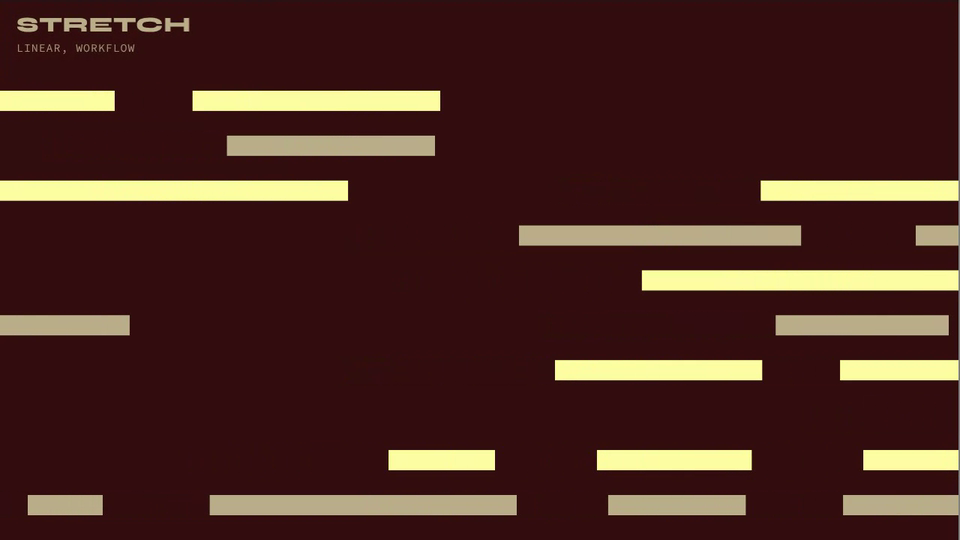
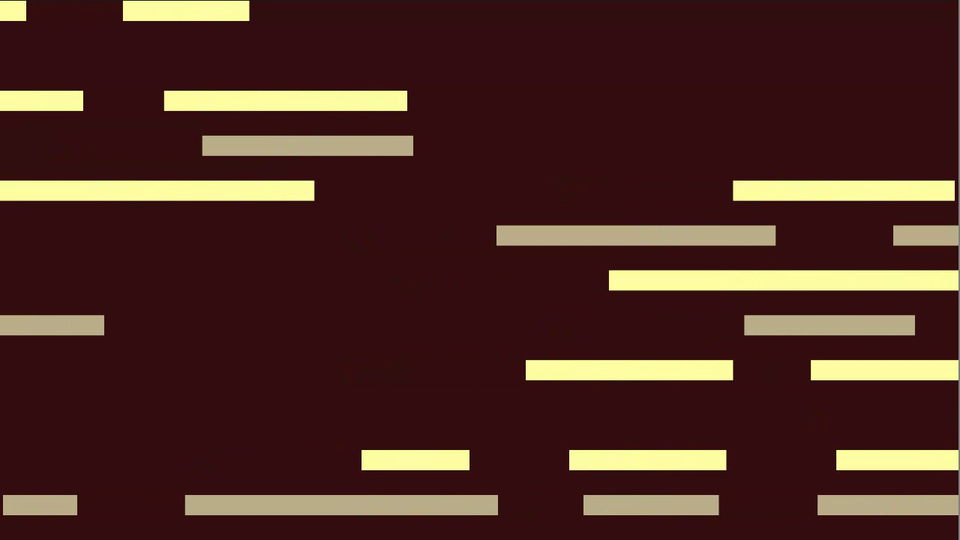
HOB Pattern Generator: controls in a right sidebar, no text on the preview
Claude-Session: https://claude.ai/code/session_01AHeBdw1yZrTVobosxD3wAX

diff --git a/hob-pattern-generator/index.html b/hob-pattern-generator/index.html
@@ -17,35 +17,38 @@ nav.back a:hover,nav.back a:focus-visible{color:#fff;text-decoration:underline;t
 nav.back span{color:#6e6e6e}
 nav.back b{font-weight:500;color:#fff;overflow:hidden;text-overflow:ellipsis}
 @media (max-width:640px){nav.back{padding:0 16px}nav.back>span:nth-of-type(2),nav.back>b{display:none}}
-main{flex:1;min-height:0;position:relative;overflow:hidden;background:#330F10}
+main{flex:1;min-height:0;display:flex;overflow:hidden;background:#efefef}
+.stage{flex:1;min-width:0;position:relative}
 canvas{position:absolute;inset:0;width:100%;height:100%;display:block}
-.lab{position:absolute;left:22px;top:18px;pointer-events:none;color:var(--ink)}
-.lab h1{font:800 28px/1 "Syne","Arial Black",sans-serif;letter-spacing:.02em;text-transform:uppercase}
-.lab p{margin-top:8px;font:400 15px/1.2 "Source Code Pro",ui-monospace,monospace;letter-spacing:.06em;text-transform:uppercase;opacity:.85}
-.panel{position:absolute;left:16px;right:16px;bottom:16px;max-width:900px;display:flex;flex-wrap:wrap;gap:10px 18px;align-items:center;padding:10px 12px;border-radius:12px;background:rgba(0,0,0,.62);backdrop-filter:blur(10px);-webkit-backdrop-filter:blur(10px)}
-.seg{display:flex;gap:4px}
-button{font:inherit;color:#fff;background:transparent;border:1px solid rgba(255,255,255,.28);border-radius:8px;padding:6px 11px;cursor:pointer;white-space:nowrap}
-button:hover{border-color:#fff}
-button:focus-visible,input:focus-visible{outline:2px solid #fff;outline-offset:2px}
-button[aria-pressed="true"]{background:#fff;color:#000;border-color:#fff}
-label{display:flex;align-items:center;gap:8px;color:#d8d8d8}
-input[type=range]{width:96px;accent-color:#FDFEA1}
-@media (max-width:640px){.panel{left:10px;right:10px;bottom:10px}input[type=range]{width:78px}label{flex:1 1 40%}}
-.clip .panel{display:none}
+aside{flex:none;width:300px;background:#fff;border-left:1px solid #e6e6e6;color:#111;padding:20px 20px 28px;overflow-y:auto}
+aside h2{font:500 13px/1 "Inter",sans-serif;margin:0 0 16px}
+aside section{padding-bottom:20px;margin-bottom:20px;border-bottom:1px solid #ececec}
+aside section:last-child{border:0;margin:0}
+.seg{display:grid;grid-template-columns:repeat(3,1fr);gap:6px}
+button{font:500 12px "Inter",sans-serif;color:#111;background:#f3f3f3;border:0;border-radius:8px;padding:10px 6px;cursor:pointer}
+button:hover{background:#e8e8e8}
+button:focus-visible,input:focus-visible{outline:2px solid #3d4ee0;outline-offset:2px}
+button[aria-pressed="true"]{background:#111;color:#fff}
+.row{display:grid;grid-template-columns:88px 1fr 34px;align-items:center;gap:10px;margin-bottom:14px;font-size:12px;color:#777}
+.row output{color:#111;text-align:right;font-variant-numeric:tabular-nums}
+input[type=range]{width:100%;accent-color:#111}
+@media (max-width:760px){main{flex-direction:column}.stage{flex:1 1 55%}aside{width:auto;border-left:0;border-top:1px solid #e6e6e6;flex:none;max-height:45%}}
+.clip aside{display:none}
 </style>
 </head>
 <body>
 <nav class="back" aria-label="Sandbox"><a href="../">Sandbox</a><span>/</span><a href="../">Back to all projects</a><span>/</span><b>HOB Pattern Generator</b></nav>
-<main id="stage">
-  <canvas id="cv"></canvas>
-  <div class="lab" id="lab"><h1 id="t"></h1><p id="s"></p></div>
-  <div class="panel">
-    <div class="seg" id="seg" role="group" aria-label="Motif"></div>
-    <label>Vert spacing <input id="vs" type="range" min="0" max="100" value="40"></label>
-    <label>Horz spacing <input id="hs" type="range" min="0" max="100" value="30"></label>
-    <label>Density <input id="de" type="range" min="0" max="100" value="45"></label>
-    <label>Motion speed <input id="sp" type="range" min="0" max="300" value="100"></label>
-  </div>
+<main>
+  <div class="stage" id="stage"><canvas id="cv"></canvas></div>
+  <aside>
+    <section><h2>Motif</h2><div class="seg" id="seg" role="group" aria-label="Motif"></div></section>
+    <section><h2>Pattern</h2>
+      <label class="row">Vert spacing <input id="vs" type="range" min="0" max="100" value="40"><output>40</output></label>
+      <label class="row">Horz spacing <input id="hs" type="range" min="0" max="100" value="30"><output>30</output></label>
+      <label class="row">Density <input id="de" type="range" min="0" max="100" value="45"><output>45</output></label>
+      <label class="row">Motion speed <input id="sp" type="range" min="0" max="300" value="100"><output>100</output></label>
+    </section>
+  </aside>
 </main>
 <script>
 (function(){
@@ -73,7 +76,7 @@ function hit(x,y,w,h){
 }
 // draw a rect, dimmed while the pointer is over it (wide bars fade more than short chips)
 function bar(x,y,w,h,col){
-  if(w<=0||x>W||x+w<0||y<88*u)return; // keep the label area clear
+  if(w<=0||x>W||x+w<0)return;
   ctx.globalAlpha=hit(x,y,w,h)?(w<200*u?.78:.47):1;
   ctx.fillStyle=col; const x0=Math.round(x); ctx.fillRect(x0,Math.round(y),Math.round(x+w)-x0,Math.round(h));
 }
@@ -164,13 +167,12 @@ function fit(){
 }
 function setMotif(k){
   if(!MOTIFS[k])return;S.motif=k;const m=MOTIFS[k];
-  $('t').textContent=m.name;$('s').textContent=m.sub;$('lab').style.setProperty('--ink',m.ink);
   $('stage').style.background=m.bg;
   document.querySelectorAll('#seg button').forEach(b=>b.setAttribute('aria-pressed',b.dataset.k===k));
   try{history.replaceState(null,'','#'+k)}catch(e){}
 }
 Object.keys(MOTIFS).forEach(k=>{const b=document.createElement('button');b.type='button';b.dataset.k=k;b.textContent=MOTIFS[k].name;b.onclick=()=>setMotif(k);$('seg').appendChild(b);});
-[['vs','vs'],['hs','hs'],['de','de'],['sp','sp']].forEach(([id,key])=>{$(id).oninput=e=>{S[key]=+e.target.value;};});
+[['vs','vs'],['hs','hs'],['de','de'],['sp','sp']].forEach(([id,key])=>{$(id).oninput=e=>{S[key]=+e.target.value;e.target.nextElementSibling.textContent=e.target.value;};});
 cv.addEventListener('pointermove',e=>{const r=cv.getBoundingClientRect();mouse.x=e.clientX-r.left;mouse.y=e.clientY-r.top;});
 cv.addEventListener('pointerleave',()=>{mouse.x=mouse.y=-9999;});
 addEventListener('resize',fit);
